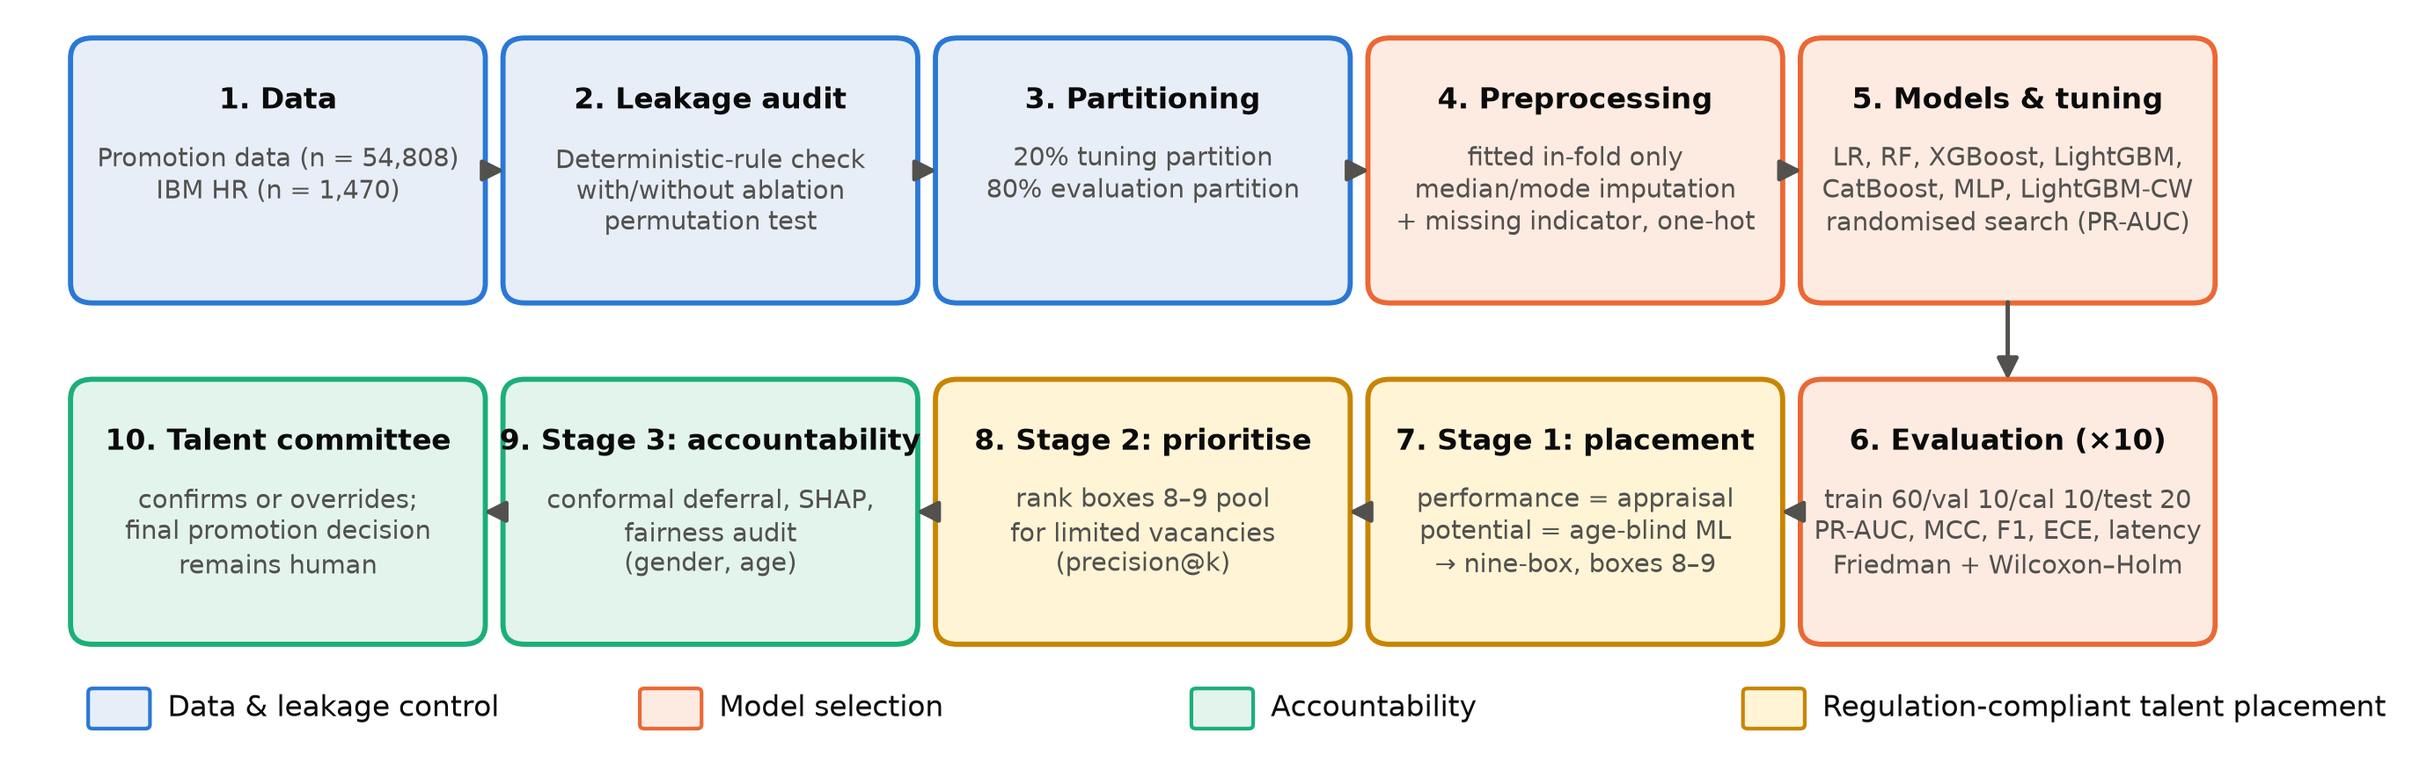
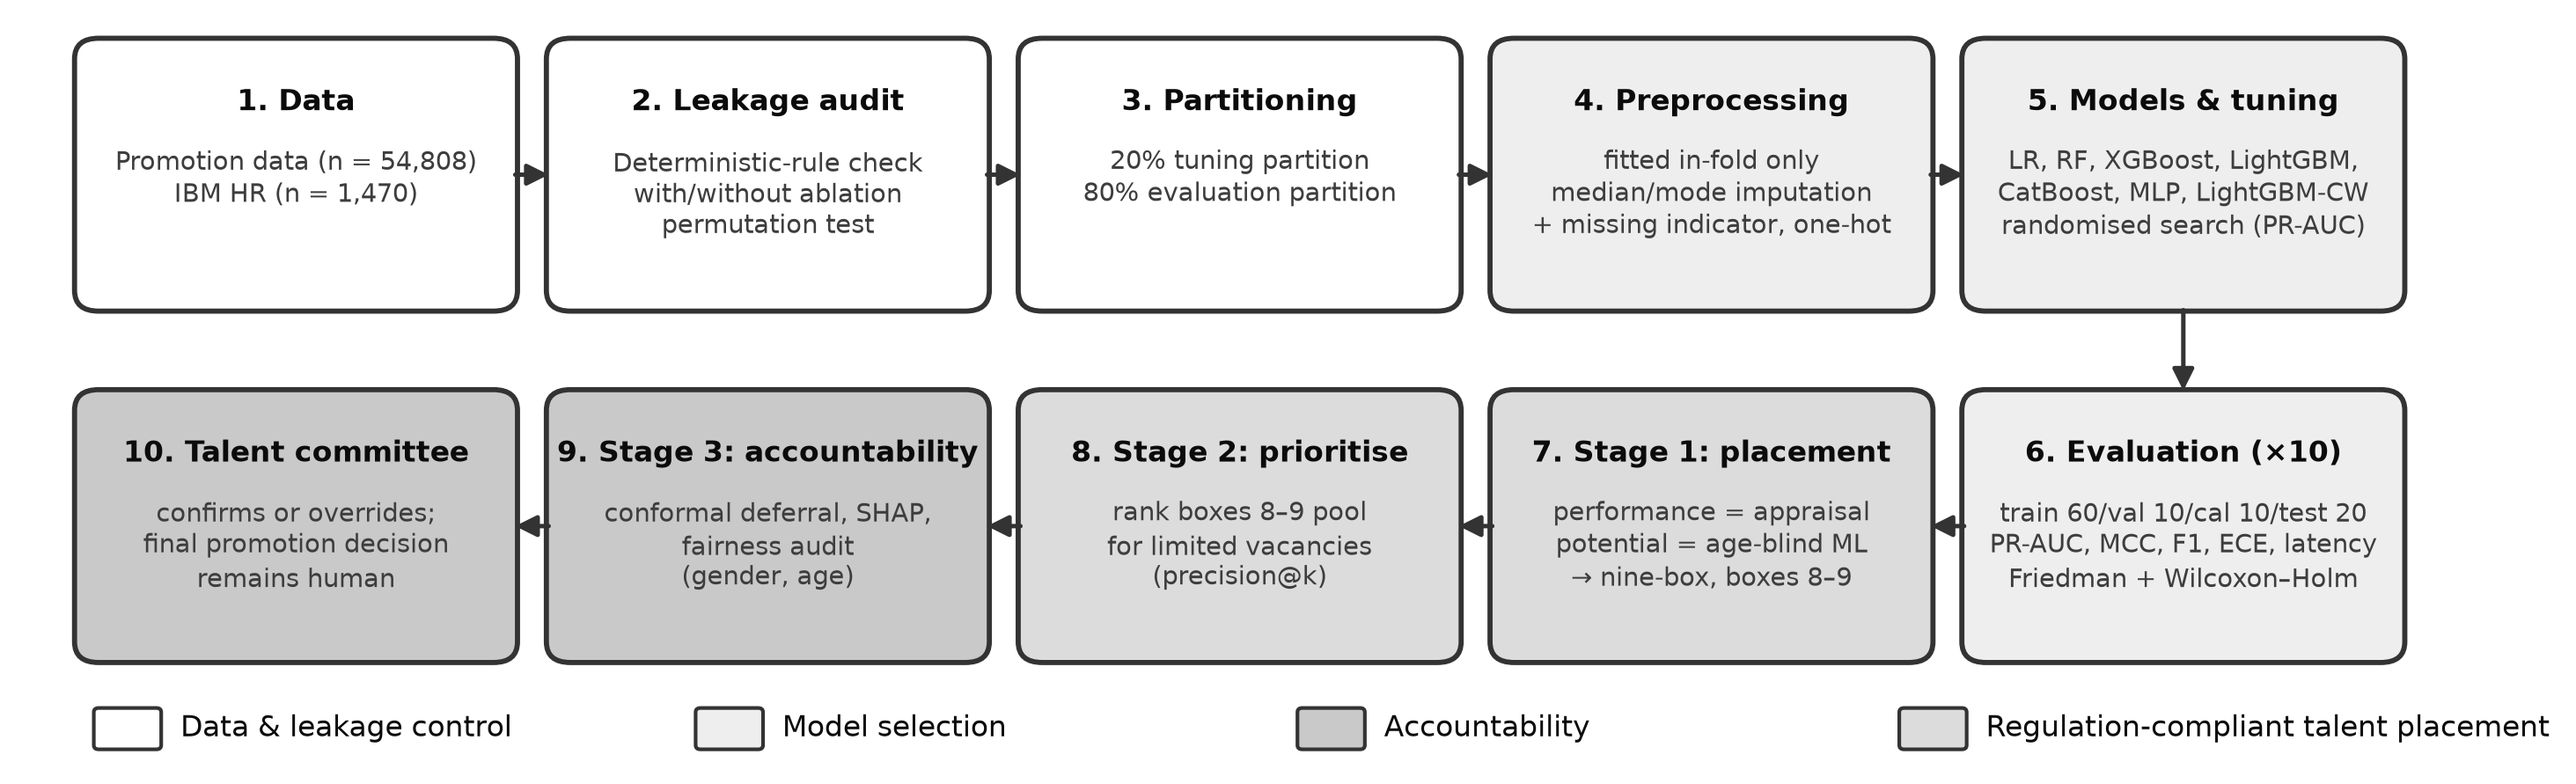
Add unit and smoke tests, missing scripts, and grayscale flow figures
- tests/test_core.py: 8 unit tests for the guarantees the paper relies on
  (official nine-box numbering, disjoint tuning/evaluation partitions,
  stratified reproducible splits, excluded sensitive/leaking features,
  Mondrian vs marginal conformal coverage, ECE)
- tests/smoke_pipeline.py: end-to-end run of the main experiments on
  synthetic data in a temporary directory
- code/make_smoke_data.py, code/plot_conformal_repeats.py: previously
  missing from the repository
- Pipeline figure and graphical abstract redrawn in black/gray only
- README: how to run the tests

diff --git a/tests/test_core.py b/tests/test_core.py
@@ -1,0 +1,144 @@
+"""Unit tests for the methodological guarantees the paper relies on.
+
+Run from the repository root:  python -m unittest discover -s tests -v   (or: pytest tests)
+No real data are needed: the tests use synthetic records with the Kaggle promotion schema.
+"""
+import ast
+import subprocess
+import sys
+import tempfile
+import unittest
+from pathlib import Path
+
+import numpy as np
+
+ROOT = Path(__file__).resolve().parents[1]
+CODE = ROOT / "code"
+sys.path.insert(0, str(CODE))
+
+from common import dev_holdout, ece, load_promotion, split, task_frame  # noqa: E402
+from run_trust import conformal_sets  # noqa: E402
+
+# Annex of PermenPANRB 20/2025: (performance, potential) -> box
+OFFICIAL = {("Low", "Low"): 1, ("Medium", "Low"): 2, ("Low", "Medium"): 3, ("High", "Low"): 4,
+            ("Medium", "Medium"): 5, ("Low", "High"): 6, ("High", "Medium"): 7, ("Medium", "High"): 8,
+            ("High", "High"): 9}
+
+
+def box_no_in(script: str) -> dict:
+    """Read the BOX_NO literal from a script without executing it (the experiment scripts run on import)."""
+    tree = ast.parse((CODE / script).read_text(encoding="utf-8-sig"))
+    for node in ast.walk(tree):
+        if isinstance(node, ast.Assign) and any(getattr(t, "id", None) == "BOX_NO" for t in node.targets):
+            return ast.literal_eval(node.value)
+    raise AssertionError(f"BOX_NO not found in {script}")
+
+
+class SyntheticData:
+    _df = None
+
+    @classmethod
+    def df(cls):
+        if cls._df is None:
+            tmp = Path(tempfile.mkdtemp()) / "smoke.csv"
+            subprocess.run([sys.executable, str(CODE / "make_smoke_data.py"), str(tmp), "6000"], check=True,
+                           capture_output=True)
+            cls._df = load_promotion(tmp)
+        return cls._df
+
+
+class TestNineBoxLayout(unittest.TestCase):
+    def test_scripts_use_official_annex(self):
+        for script in ("run_talent_box.py", "run_box_extras.py", "plot_talent_box.py"):
+            with self.subTest(script=script):
+                self.assertEqual(box_no_in(script), OFFICIAL)
+
+    def test_succession_pools(self):
+        inv = {v: k for k, v in OFFICIAL.items()}
+        self.assertEqual(inv[9], ("High", "High"))      # above expectation, high potential
+        self.assertEqual(inv[8], ("Medium", "High"))    # as expected, high potential
+        self.assertEqual(inv[7], ("High", "Medium"))    # above expectation, medium potential
+        # boxes 8-9 are exactly the high-potential boxes with at least as-expected performance
+        self.assertEqual({b for (perf, pot), b in OFFICIAL.items() if pot == "High" and perf != "Low"}, {8, 9})
+        self.assertEqual(sorted(OFFICIAL.values()), list(range(1, 10)))
+
+
+class TestDataProtocol(unittest.TestCase):
+    def setUp(self):
+        df = SyntheticData.df()
+        X, y, sens, _, _ = task_frame(df, "talent")
+        self.X = X.assign(_row=np.arange(len(X)))
+        self.y, self.sens = y, sens
+
+    def test_tuning_partition_never_used_for_evaluation(self):
+        (Xd, _, _), (Xe, _, _) = dev_holdout(self.X, self.y, self.sens)
+        dev, ev = set(Xd["_row"]), set(Xe["_row"])
+        self.assertFalse(dev & ev)
+        self.assertAlmostEqual(len(dev) / len(self.X), 0.2, delta=0.01)
+        for seed in (1000, 1009):
+            parts = split(self.X, self.y, self.sens, seed)
+            rows = [set(parts[k][0]["_row"]) for k in ("train", "val", "cal", "test")]
+            with self.subTest(seed=seed):
+                self.assertFalse(dev & set().union(*rows))
+                for i in range(4):
+                    for j in range(i + 1, 4):
+                        self.assertFalse(rows[i] & rows[j])
+                self.assertEqual(set().union(*rows), ev)
+
+    def test_split_proportions_and_stratification(self):
+        parts = split(self.X, self.y, self.sens, 1000)
+        n = sum(len(parts[k][1]) for k in parts)
+        for k, share in {"train": 0.6, "val": 0.1, "cal": 0.1, "test": 0.2}.items():
+            with self.subTest(part=k):
+                self.assertAlmostEqual(len(parts[k][1]) / n, share, delta=0.01)
+                self.assertAlmostEqual(parts[k][1].mean(), self.y.mean(), delta=0.02)
+
+    def test_seeds_are_reproducible(self):
+        a = split(self.X, self.y, self.sens, 1003)["test"][0]["_row"].tolist()
+        b = split(self.X, self.y, self.sens, 1003)["test"][0]["_row"].tolist()
+        self.assertEqual(a, b)
+
+
+class TestFeatureSets(unittest.TestCase):
+    def test_sensitive_and_leaking_features_are_excluded(self):
+        df = SyntheticData.df()
+        for task in ("talent", "potential", "performance"):
+            X, _, sens, _, _ = task_frame(df, task)
+            with self.subTest(task=task):
+                self.assertNotIn("gender", X.columns)          # fairness through unawareness
+                self.assertNotIn("is_promoted", X.columns)     # target never an input
+                self.assertIn("gender", sens.columns)          # kept only for the fairness audit
+        Xp, *_ = task_frame(df, "potential")
+        self.assertNotIn("previous_year_rating", Xp.columns)   # potential axis is independent of the rating
+        self.assertNotIn("kpis_met", Xp.columns)
+        Xf, *_ = task_frame(df, "performance")
+        self.assertNotIn("previous_year_rating", Xf.columns)   # label of the performance task
+
+
+class TestConformal(unittest.TestCase):
+    def test_mondrian_guarantees_coverage_within_each_class(self):
+        rng = np.random.default_rng(0)
+        n, prev, alpha = 40000, 0.085, 0.10
+        y = (rng.random(n) < prev).astype(int)
+        p = np.clip(0.08 + 0.25 * y + rng.normal(0, 0.12, n), 0.001, 0.999)   # weak, imbalanced classifier
+        cal, te = np.arange(n) < n // 2, np.arange(n) >= n // 2
+        for mondrian in (True, False):
+            sets = conformal_sets(p[cal], y[cal], p[te], alpha, mondrian=mondrian)
+            cov1 = sets[y[te] == 1, 1].mean()
+            cov0 = sets[y[te] == 0, 0].mean()
+            if mondrian:
+                self.assertGreaterEqual(cov1, 1 - alpha - 0.02)
+                self.assertGreaterEqual(cov0, 1 - alpha - 0.02)
+            else:   # marginal coverage hides under-coverage of the rare class
+                self.assertLess(cov1, 1 - alpha - 0.05)
+
+
+class TestMetrics(unittest.TestCase):
+    def test_ece(self):
+        y = np.array([0, 1] * 500)
+        self.assertAlmostEqual(ece(y, y.astype(float)), 0.0, places=6)
+        self.assertAlmostEqual(ece(y, np.full(len(y), 0.9)), 0.4, places=6)
+
+
+if __name__ == "__main__":
+    unittest.main(verbosity=2)

diff --git a/code/make_graphical_abstract.py b/code/make_graphical_abstract.py
@@ -9,7 +9,9 @@ from matplotlib.patches import FancyArrowPatch, FancyBboxPatch
 from common import FIGURES, TABLES
 
 INK, INK2 = "#0b0b0b", "#52514e"
-C1, C2, C3, C4 = "#2a78d6", "#eb6834", "#1baf7a", "#c98500"
+# grayscale only: dark = ML / emphasis, light = conventional
+C1, C2, C3, C4 = "#2b2b2b", "#a6a6a6", "#2b2b2b", "#2b2b2b"
+HI_FILL, LO_FILL, HI_EDGE, LO_EDGE = "#cfcfcf", "#f2f2f2", "#0b0b0b", "#6b6b6b"
 
 place = pd.read_csv(TABLES / "box_placement_runs.csv")
 prio = pd.read_csv(TABLES / "box_prioritisation_runs.csv")
@@ -28,7 +30,7 @@ def panel(x, title, color):
     ax.set_xlim(0, 1); ax.set_ylim(0, 1); ax.axis("off")
     ax.add_patch(FancyBboxPatch((0.01, 0.01), 0.98, 0.98, boxstyle="round,pad=0,rounding_size=0.03",
                                 fc="white", ec=color, lw=2))
-    ax.text(0.5, 0.93, title, ha="center", va="center", fontsize=13, weight="bold", color=color)
+    ax.text(0.5, 0.93, title, ha="center", va="center", fontsize=13, weight="bold", color=INK)
     return ax
 
 
@@ -38,13 +40,13 @@ labels = [["6", "8", "9"], ["3", "5", "7"], ["1", "2", "4"]]  # PermenPANRB 20/2
 for i in range(3):
     for j in range(3):
         hi = labels[i][j] in ("8", "9")
-        a.add_patch(plt.Rectangle((0.2 + j * 0.22, 0.56 - i * 0.16), 0.2, 0.14, fc="#fdebe2" if hi else "#e8eef7",
-                                  ec=C2 if hi else C1, lw=2 if hi else 1))
+        a.add_patch(plt.Rectangle((0.2 + j * 0.22, 0.56 - i * 0.16), 0.2, 0.14, fc=HI_FILL if hi else LO_FILL,
+                                  ec=HI_EDGE if hi else LO_EDGE, lw=2.2 if hi else 1))
         a.text(0.3 + j * 0.22, 0.63 - i * 0.16, f"Box {labels[i][j]}", ha="center", va="center", fontsize=9.5,
                weight="bold" if hi else "normal")
 a.text(0.53, 0.18, "Performance = official appraisal (kept)", ha="center", fontsize=9.5, color=INK)
 a.text(0.08, 0.48, "Potential", rotation=90, ha="center", va="center", fontsize=9.5, color=INK)
-a.text(0.53, 0.09, "Boxes 8–9 = high-potential pool (7–9 = agency pool)", ha="center", fontsize=9.5, color=C2, weight="bold")
+a.text(0.53, 0.09, "Boxes 8–9 = high-potential pool (7–9 = agency pool)", ha="center", fontsize=9.5, color=INK, weight="bold")
 
 # Panel 2: two-stage ML
 b = panel(0.355, "2  Two-stage ML + accountability", C3)
@@ -54,7 +56,7 @@ steps = ["Stage 1: age-blind CatBoost calibrates potential", "Stage 2: rank boxe
 for i, s in enumerate(steps):
     y = 0.78 - i * 0.125
     b.add_patch(FancyBboxPatch((0.06, y - 0.045), 0.88, 0.09, boxstyle="round,pad=0.005,rounding_size=0.02",
-                               fc="#fff4d6" if i < 2 else "#e3f4ec", ec=C4 if i < 2 else C3, lw=1))
+                               fc=HI_FILL if i < 2 else LO_FILL, ec="#333333", lw=1))
     b.text(0.5, y, s, ha="center", va="center", fontsize=9.6, color=INK)
     if i < len(steps) - 1:
         b.add_patch(FancyArrowPatch((0.5, y - 0.047), (0.5, y - 0.078), arrowstyle="-|>", mutation_scale=8, color=INK2))

diff --git a/tests/smoke_pipeline.py b/tests/smoke_pipeline.py
@@ -1,0 +1,50 @@
+"""End-to-end smoke test: run the main experiment scripts on SYNTHETIC data and check that they finish and write
+their tables. Results go to a temporary directory; nothing in results/ is touched. Never used for reported results.
+
+Usage (from the repository root):  python tests/smoke_pipeline.py [n_rows]
+"""
+import os
+import shutil
+import subprocess
+import sys
+import tempfile
+import time
+from pathlib import Path
+
+ROOT = Path(__file__).resolve().parents[1]
+CODE = ROOT / "code"
+n = sys.argv[1] if len(sys.argv) > 1 else "4000"
+
+tmp = Path(tempfile.mkdtemp(prefix="hrml_smoke_"))
+(tmp / "tables").mkdir()
+(tmp / "figures").mkdir()
+data = tmp / "smoke.csv"
+subprocess.run([sys.executable, str(CODE / "make_smoke_data.py"), str(data), n], check=True)
+# the experiment scripts reuse the tuned hyper-parameters of the benchmark
+# and the model ranking chosen by the benchmark (read by the plotting helpers)
+for name in [f"best_params_{t}.json" for t in ("potential", "talent", "performance")] + ["chosen_models.json"]:
+    src = ROOT / "results" / "tables" / name
+    if src.exists():
+        shutil.copy(src, tmp / "tables" / name)
+
+env = {**os.environ, "HRML_DATA": str(data), "HRML_RESULTS": str(tmp), "MPLBACKEND": "Agg"}
+steps = [
+    ("run_talent_box.py", ["box_placement_summary.csv", "box_prioritisation_summary.csv", "box_tests.csv",
+                           "box_cells_summary.csv"]),
+    ("run_box_extras.py", ["box_deferral_ageblind_runs.csv"]),
+]
+# (plotting scripts need the outputs of every experiment and are therefore not part of the smoke test)
+failed = False
+for script, outputs in steps:
+    t0 = time.time()
+    r = subprocess.run([sys.executable, script], cwd=CODE, env=env, capture_output=True, text=True)
+    missing = [o for o in outputs if not (tmp / "tables" / o).exists()]
+    ok = r.returncode == 0 and not missing
+    failed |= not ok
+    print(f"{'PASS' if ok else 'FAIL'}  {script:<22} {time.time() - t0:6.1f} s" + (f"  missing: {missing}" if missing else ""))
+    if r.returncode != 0:
+        print(r.stderr[-2000:])
+        break
+
+print("temporary results:", tmp)
+sys.exit(1 if failed else 0)

diff --git a/code/plot_conformal_repeats.py b/code/plot_conformal_repeats.py
@@ -1,0 +1,33 @@
+"""Figure: positive-class coverage and deferral share (mean ± SD over 10 splits), marginal vs Mondrian."""
+import matplotlib.pyplot as plt
+import numpy as np
+import pandas as pd
+
+from common import FIGURES, TABLES
+from run_trust import C1, C2, INK, INK2
+
+res = pd.read_csv(TABLES / "conformal_repeats_runs.csv")
+for task in ["talent", "performance"]:
+    fig, axes = plt.subplots(1, 2, figsize=(7.2, 2.9))
+    alphas = [0.20, 0.10, 0.05]
+    x, w = np.arange(3), 0.38
+    for ax, metric, ylabel in [(axes[0], "coverage_class1", "Coverage on positive class"),
+                               (axes[1], "ambiguous", "Share deferred ({0,1} sets)")]:
+        for k, (meth, color, label) in enumerate([("Marginal", C2, "Marginal split"),
+                                                  ("Mondrian", C1, "Mondrian (class-conditional)")]):
+            g = res[(res.task == task) & (res.method == meth)].groupby("alpha")[metric]
+            m, s = g.mean().reindex(alphas), g.std().reindex(alphas)
+            bars = ax.bar(x + (k - 0.5) * w, m, w - 0.03, yerr=s, capsize=2, color=color, label=label,
+                          error_kw={"ecolor": INK2, "lw": 0.8})
+            ax.bar_label(bars, labels=[f"{v:.2f}" for v in m], fontsize=7, color=INK2, padding=3)
+        if metric == "coverage_class1":
+            for xi, t in zip(x, [0.8, 0.9, 0.95]):
+                ax.hlines(t, xi - 0.42, xi + 0.42, colors=INK, linestyles="--", lw=1)
+        ax.set_xticks(x, ["α = 0.20", "α = 0.10", "α = 0.05"])
+        ax.set(ylabel=ylabel, ylim=(0, 1.12))
+        ax.grid(axis="x", visible=False)
+    axes[0].legend(frameon=False, fontsize=7.5, loc="upper left")
+    fig.tight_layout()
+    fig.savefig(FIGURES / f"fig_conformal_coverage_{task}.png")
+    plt.close(fig)
+    print("saved", task)

diff --git a/code/make_pipeline_figure.py b/code/make_pipeline_figure.py
@@ -7,9 +7,10 @@ from matplotlib.patches import FancyArrowPatch, FancyBboxPatch
 
 from common import FIGURES
 
-INK, INK2 = "#0b0b0b", "#52514e"
-FILL = {"data": "#e8eef7", "eval": "#fdebe2", "trust": "#e3f4ec", "decision": "#fff4d6"}
-EDGE = {"data": "#2a78d6", "eval": "#eb6834", "trust": "#1baf7a", "decision": "#c98500"}
+# grayscale only (print-friendly): groups are distinguished by fill shade
+INK, INK2, LINE = "#0b0b0b", "#3d3d3d", "#333333"
+FILL = {"data": "#ffffff", "eval": "#eeeeee", "trust": "#c9c9c9", "decision": "#dcdcdc"}
+EDGE = {k: LINE for k in FILL}
 
 TEXT = {
     "en": [
@@ -42,9 +43,9 @@ TEXT = {
 POS = [(0, 1), (1, 1), (2, 1), (3, 1), (4, 1), (4, 0), (3, 0), (2, 0), (1, 0), (0, 0)]
 
 for lang, items in TEXT.items():
-    fig, ax = plt.subplots(figsize=(11, 3.5))
+    fig, ax = plt.subplots(figsize=(12, 3.6))
     ax.set_xlim(-0.1, 5.0); ax.set_ylim(-0.15, 1.62); ax.axis("off")
-    W, H = 0.9, 0.62
+    W, H = 0.88, 0.62
     centers = []
     for (kind, label), (cx, cy) in zip(items, POS):
         x, y = cx * 0.98 + 0.02, cy * 0.85 + 0.1
@@ -62,7 +63,7 @@ for lang, items in TEXT.items():
             end = (x1, y1 + H / 2) if x1 > x0 else (x1 + W, y1 + H / 2)
         else:
             start, end = (x0 + W / 2, y0), (x1 + W / 2, y1 + H)
-        ax.add_patch(FancyArrowPatch(start, end, arrowstyle="-|>", mutation_scale=12, color=INK2, lw=1.2))
+        ax.add_patch(FancyArrowPatch(start, end, arrowstyle="-|>", mutation_scale=12, color=LINE, lw=1.2))
     legend = {"en": ["Data & leakage control", "Model selection", "Accountability", "Regulation-compliant talent placement"],
               "id": ["Data & kontrol kebocoran", "Pemilihan model", "Akuntabilitas", "Penempatan talenta patuh regulasi"]}[lang]
     for j, (kind, name) in enumerate(zip(FILL, legend)):

diff --git a/code/make_smoke_data.py b/code/make_smoke_data.py
@@ -1,0 +1,31 @@
+"""SMOKE TEST ONLY: random data with the Kaggle promotion schema, used to check that the code runs.
+Never used for any reported result."""
+import sys
+
+import numpy as np
+import pandas as pd
+
+rng = np.random.default_rng(0)
+n = int(sys.argv[2]) if len(sys.argv) > 2 else 4000
+rating = rng.choice([1, 2, 3, 4, 5, np.nan], n, p=[.1, .1, .3, .2, .22, .08])
+score = rng.normal(63, 13, n).round()
+kpi = rng.binomial(1, 0.35, n)
+logit = -4 + 0.04 * (score - 63) + 1.2 * kpi + 0.4 * np.nan_to_num(rating - 3)
+df = pd.DataFrame({
+    "employee_id": np.arange(n),
+    "department": rng.choice(["Sales & Marketing", "Operations", "Technology", "Analytics", "R&D"], n),
+    "region": rng.choice([f"region_{i}" for i in range(1, 12)], n),
+    "education": rng.choice(["Bachelor's", "Master's & above", "Below Secondary", None], n, p=[.65, .27, .03, .05]),
+    "gender": rng.choice(["m", "f"], n, p=[.7, .3]),
+    "recruitment_channel": rng.choice(["other", "sourcing", "referred"], n),
+    "no_of_trainings": rng.integers(1, 5, n),
+    "age": rng.integers(20, 60, n),
+    "previous_year_rating": rating,
+    "length_of_service": rng.integers(1, 30, n),
+    "KPIs_met >80%": kpi,
+    "awards_won?": rng.binomial(1, 0.03, n),
+    "avg_training_score": score,
+    "is_promoted": rng.binomial(1, 1 / (1 + np.exp(-logit))),
+})
+df.to_csv(sys.argv[1], index=False)
+print(df.shape, df["is_promoted"].mean())

diff --git a/README.md b/README.md
@@ -46,6 +46,7 @@ python ibm_leakage.py           # Eksperimen 1: audit kebocoran IBM
 python run_benchmark.py         # Eksperimen 2: 7 model x 3 tugas x 10 ulangan + uji Friedman/Wilcoxon-Holm
 python run_trust.py             # Eksperimen 3: kalibrasi, SHAP, keadilan, konformal, 9-box, analisis error
 python run_conformal_repeats.py # Eksperimen 4: cakupan konformal pada 10 ulangan
+python plot_conformal_repeats.py # gambar cakupan konformal (fig_conformal_coverage_*.png)
 python run_fairness_repeats.py  # Eksperimen 5: audit & mitigasi keadilan pada 10 ulangan
 python run_talent_box.py        # Eksperimen 6 (utama): penempatan kotak 9-box & prioritas kotak 8-9
 python run_box_extras.py        # Eksperimen 7: model buta-usia & rujukan konformal di kotak 8-9
@@ -58,6 +59,23 @@ python make_graphical_abstract.py
 
 Atau buka `code/reproduce.ipynb` (set `RUN_EXPERIMENTS = True` untuk menjalankan ulang semuanya, ±30 menit di CPU 16 inti).
 Seluruh pembagian data memakai *seed* tetap sehingga hasil dapat direproduksi.
+
+## Pengujian
+
+```
+python -m unittest discover -s tests -v   # 8 uji unit, < 5 detik, tanpa data asli
+python tests/smoke_pipeline.py             # uji end-to-end pada data sintetis (±1 menit)
+```
+
+Uji unit (`tests/test_core.py`) memeriksa jaminan metodologis yang dipakai naskah:
+- penomoran kotak di semua skrip sama dengan Lampiran PermenPANRB 20/2025 (kotak 7-9 = suksesi instansi);
+- partisi *tuning* 20% tidak pernah dipakai untuk evaluasi; pembagian 60/10/10/20 saling lepas, terstratifikasi, dan dapat diulang;
+- gender dan `is_promoted` tidak pernah menjadi fitur; sumbu potensi tidak memakai nilai kinerja;
+- prediksi konformal Mondrian menjamin cakupan di setiap kelas, sedangkan cakupan marginal gagal pada kelas langka;
+- perhitungan ECE.
+
+`tests/smoke_pipeline.py` membangkitkan data sintetis (`code/make_smoke_data.py`) dan menjalankan eksperimen utama
+(`run_talent_box.py`, `run_box_extras.py`) ke direktori sementara. Data sintetis tidak pernah dipakai untuk hasil yang dilaporkan.
 
 ## Gambar yang dipakai di naskah
 
